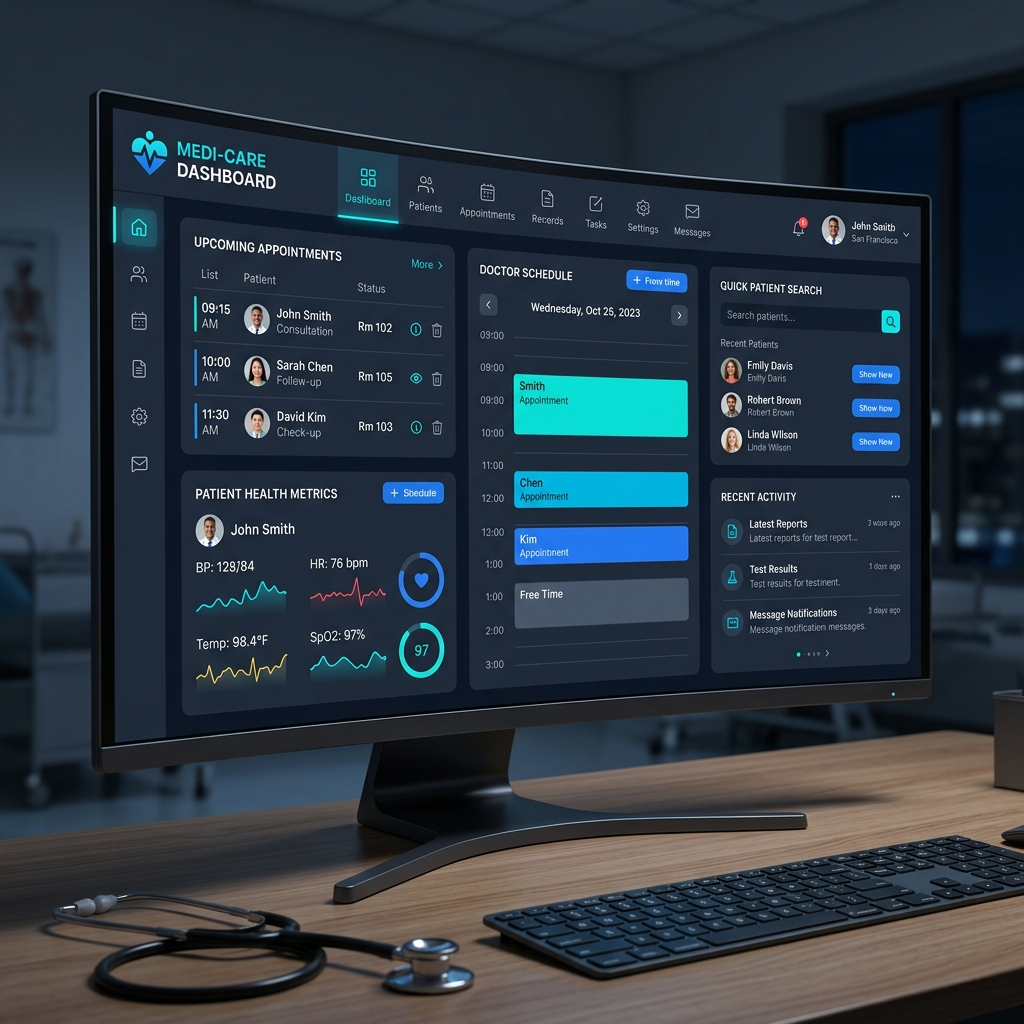
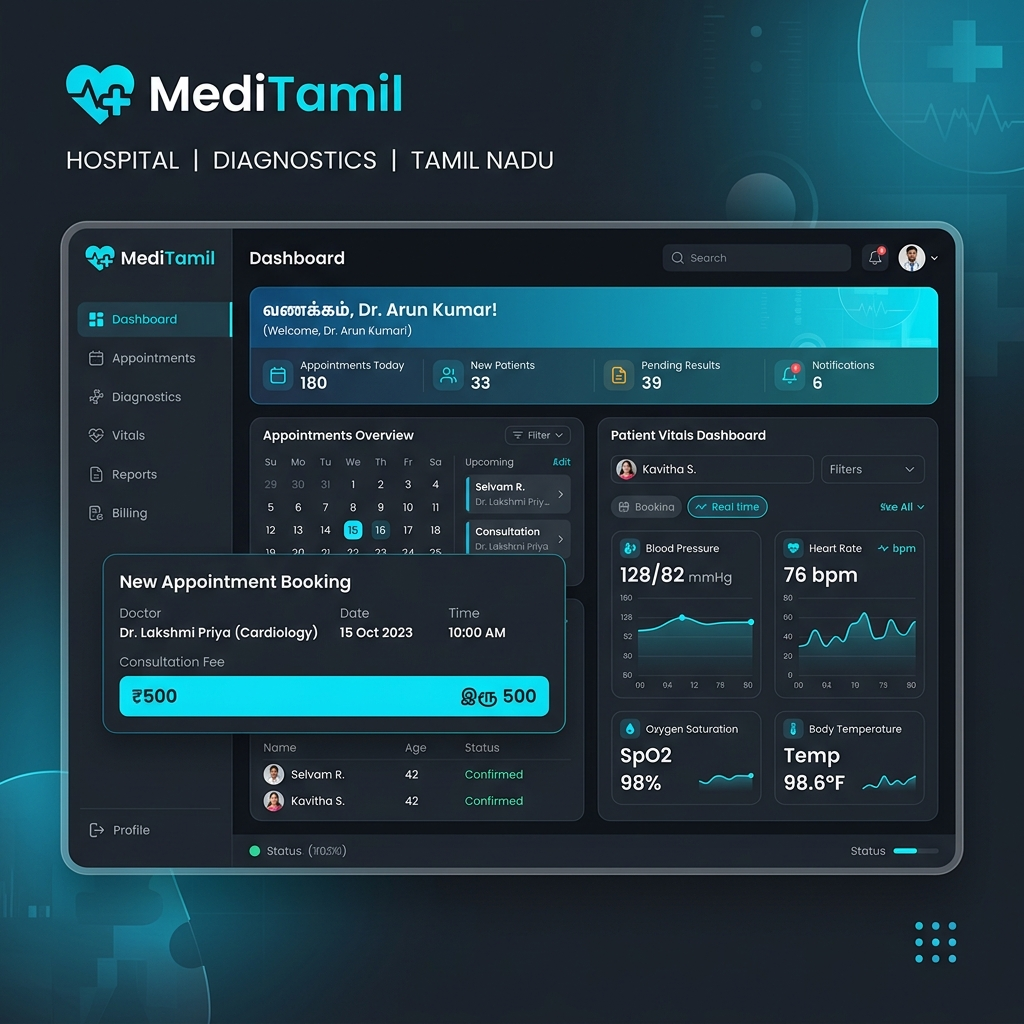
Showcase all 7 Indian Tamil Nadu business sectors with WebP images and INR pricing

diff --git a/components/industries.tsx b/components/industries.tsx
@@ -1,7 +1,18 @@
 "use client";
 
 import Image from "next/image";
-import { Stethoscope, ShoppingBag, Building2, Armchair, ArrowUpRight, Sparkles, CheckCircle2 } from "lucide-react";
+import {
+  Stethoscope,
+  ShoppingBag,
+  Building2,
+  Armchair,
+  Gem,
+  Shirt,
+  Smartphone,
+  ArrowUpRight,
+  Sparkles,
+  CheckCircle2,
+} from "lucide-react";
 
 export default function Industries() {
   const scrollToContact = (industryName: string) => {
@@ -13,44 +24,74 @@ export default function Industries() {
 
   const industryList = [
     {
-      id: "medical",
-      title: "Medical, Hospitals & Healthcare",
-      tag: "Healthcare & Hospitals",
-      desc: "Custom hospital management systems, patient portals, online doctor appointment booking, telemedicine web apps, and EHR systems.",
-      image: "/images/industry-medical.webp",
-      icon: Stethoscope,
-      accent: "from-blue-600 to-cyan-500",
-      features: ["Doctor Appointment Booking", "Patient Health Records", "Pharmacy & Lab Integration"],
-    },
-    {
       id: "grocery",
-      title: "Grocery & Vegetable Shops",
-      tag: "Retail & Grocery",
-      desc: "Online grocery delivery web & mobile apps, fresh produce inventory tracking, instant checkout, and local store delivery management.",
+      title: "Grocery & Fresh Vegetable Shops",
+      tag: "Kirana & Vegetable Stores",
+      desc: "Online fresh vegetable & grocery delivery mobile apps, item weight stock management, Indian Rupee (₹) billing, and WhatsApp order notifications.",
       image: "/images/industry-grocery.webp",
       icon: ShoppingBag,
-      accent: "from-emerald-600 to-teal-500",
-      features: ["Live Stock & Weight Catalog", "Express Local Delivery", "WhatsApp Order Notifications"],
+      pricingSample: "Daily Fresh Stock (₹49/kg)",
+      features: ["Live Stock & Weight Pricing (₹)", "Express Local Store Delivery", "Direct WhatsApp Order Dispatch"],
+    },
+    {
+      id: "medical",
+      title: "Medical, Hospitals & Clinics",
+      tag: "Healthcare & Diagnostics",
+      desc: "Hospital management portals, online doctor appointment scheduling, telemedicine consultation, patient health records, and pharmacy EHR.",
+      image: "/images/industry-medical.webp",
+      icon: Stethoscope,
+      pricingSample: "Doctor Consultation (₹500)",
+      features: ["Online Doctor Appointment Booking", "Patient Health & Lab Diagnostics", "Pharmacy Billing & EHR Records"],
     },
     {
       id: "realestate",
-      title: "Real Estate & Property Portals",
-      tag: "Real Estate & Housing",
-      desc: "Property listing websites, apartment rental management portals, virtual tour integrations, lead management CRMs, and agent dashboards.",
+      title: "Real Estate & Housing Portals",
+      tag: "Plots, Flats & Housing",
+      desc: "Property listing portals, apartment & plot sales, virtual property tours, lead management CRMs, and real estate agent dashboards across Tamil Nadu.",
       image: "/images/industry-realestate.webp",
       icon: Building2,
-      accent: "from-violet-600 to-blue-600",
-      features: ["Interactive Property Maps", "Lead Inquiry CRM", "360 Virtual Tour Viewer"],
+      pricingSample: "Plots & Flats (₹45 L - ₹1.2 Cr)",
+      features: ["Interactive Map Property Search", "Lead Management & Inquiry CRM", "360° Virtual Property Tour Viewer"],
     },
     {
       id: "furniture",
-      title: "Furniture, Bedding & Home Goods",
-      tag: "Furniture & Decor",
-      desc: "E-commerce stores for furniture manufacturers and bedding shops with 3D product customization, bed sizing options, and delivery tracking.",
+      title: "Furniture, Bedding & Home Decor",
+      tag: "Furniture & Bedding",
+      desc: "Custom e-commerce platforms for furniture manufacturers, mattress shops, and bedding stores with custom sizing and home delivery tracking.",
       image: "/images/industry-furniture.webp",
       icon: Armchair,
-      accent: "from-amber-500 to-orange-600",
-      features: ["Custom Dimension Selectors", "High-Res 3D Product Gallery", "Local Delivery Scheduler"],
+      pricingSample: "Teak Sets & Beds (₹35,000)",
+      features: ["Custom Dimension & Wood Selector", "HD 3D Product Furniture Gallery", "Doorstep Delivery & Assembly Scheduler"],
+    },
+    {
+      id: "jewelry",
+      title: "Gold Jewelry & Ornaments Shops",
+      tag: "Gold & Jewelry Showrooms",
+      desc: "Digital showrooms and mobile apps for gold jewelry stores, 22K/24K gold rate calculators, ornament catalogs, and secure inquiry forms.",
+      image: "/images/portfolio-novastore.webp",
+      icon: Gem,
+      pricingSample: "22K Gold Ornaments (₹58,000)",
+      features: ["Live Today's Gold Rate (₹/gram)", "HD Jewelry Showcase Gallery", "Custom Weight & Metal Calculator"],
+    },
+    {
+      id: "textiles",
+      title: "Textiles, Sarees & Garment Stores",
+      tag: "Silk Sarees & Garments",
+      desc: "E-commerce web apps for silk saree showrooms, clothing boutiques, and garment retail shops with dynamic size charts and coupon codes.",
+      image: "/images/portfolio-edupulse.webp",
+      icon: Shirt,
+      pricingSample: "Kanchipuram Silk Sarees (₹12,500)",
+      features: ["Filter by Fabric, Color & Occasion", "Custom Saree Draping Previews", "Pan-India Shipping & Order Tracking"],
+    },
+    {
+      id: "electronics",
+      title: "Electronics & Mobile Retail Shops",
+      tag: "Mobiles & Appliances",
+      desc: "Digital storefronts for mobile phone shops and electronic showrooms with EMI calculators, brand filters, and warranty tracking.",
+      image: "/images/portfolio-logix.webp",
+      icon: Smartphone,
+      pricingSample: "Smartphones & Appliances (₹18,999)",
+      features: ["Instant No-Cost EMI Calculator", "Product Specs Comparison Tool", "Store Pickup & Express Delivery"],
     },
   ];
 
@@ -62,20 +103,20 @@ export default function Industries() {
         <div className="text-center max-w-3xl mx-auto space-y-3 mb-10">
           <div className="inline-flex items-center gap-2 px-3.5 py-1 rounded-full bg-cyan-950/80 border border-cyan-500/30 text-cyan-300 text-xs font-semibold uppercase tracking-wider">
             <Sparkles className="w-3.5 h-3.5 text-cyan-400" />
-            <span>Tailored Industry Solutions</span>
+            <span>7 Core Business Sectors</span>
           </div>
 
           <h2 className="font-heading font-extrabold text-white tracking-tight" style={{ fontSize: "clamp(1.25rem, 5vw, 2.75rem)" }}>
-            Engineered For <span className="text-gradient-brand">Every Business Sector</span>
+            Engineered For <span className="text-gradient-brand">Every Indian Business Sector</span>
           </h2>
 
           <p className="text-slate-300 text-xs sm:text-base leading-relaxed">
-            From vegetable shops and medical hospitals to real estate firms and furniture stores, we build custom digital platforms for any product or industry.
+            From vegetable shops and medical hospitals to real estate, furniture, gold jewelry, and saree showrooms across Tamil Nadu & India — we build custom web & mobile solutions with Indian Rupee (₹) integration.
           </p>
         </div>
 
         {/* Industry Cards Grid */}
-        <div className="grid grid-cols-1 md:grid-cols-2 gap-6">
+        <div className="grid grid-cols-1 md:grid-cols-2 lg:grid-cols-3 gap-6">
           {industryList.map((ind) => {
             const IconComponent = ind.icon;
             return (
@@ -86,7 +127,7 @@ export default function Industries() {
               >
                 <div>
                   {/* WebP Image Banner Display */}
-                  <div className="h-56 relative overflow-hidden">
+                  <div className="h-48 relative overflow-hidden">
                     <Image
                       src={ind.image}
                       alt={ind.title}
@@ -95,31 +136,34 @@ export default function Industries() {
                     />
                     <div className="absolute inset-0 bg-gradient-to-t from-[#0D1524] via-transparent to-black/30 z-10" />
 
-                    {/* Top Badge */}
-                    <div className="relative z-20 p-4 flex items-center justify-between">
-                      <div className="flex items-center gap-2 px-3 py-1 rounded-lg bg-slate-950/80 border border-white/20 text-xs font-mono font-bold text-cyan-300 backdrop-blur-md shadow-md">
-                        <IconComponent className="w-4 h-4 text-cyan-400" />
-                        <span>{ind.tag}</span>
+                    {/* Top Badges */}
+                    <div className="relative z-20 p-3 flex items-center justify-between gap-2">
+                      <div className="flex items-center gap-1.5 px-2.5 py-1 rounded-lg bg-slate-950/85 border border-white/20 text-[11px] font-mono font-bold text-cyan-300 backdrop-blur-md shadow-md">
+                        <IconComponent className="w-3.5 h-3.5 text-cyan-400 shrink-0" />
+                        <span className="truncate">{ind.tag}</span>
                       </div>
+                      <span className="px-2 py-0.5 rounded-md bg-emerald-950/80 border border-emerald-500/40 text-[10px] font-mono font-bold text-emerald-300 shadow-md shrink-0">
+                        {ind.pricingSample}
+                      </span>
                     </div>
                   </div>
 
                   {/* Card Content */}
-                  <div className="p-5 space-y-3">
-                    <h3 className="font-heading font-bold text-lg sm:text-xl text-white group-hover:text-cyan-300 transition-colors">
+                  <div className="p-4 space-y-2.5">
+                    <h3 className="font-heading font-bold text-base sm:text-lg text-white group-hover:text-cyan-300 transition-colors">
                       {ind.title}
                     </h3>
 
-                    <p className="text-slate-300 text-xs sm:text-sm leading-relaxed">
+                    <p className="text-slate-300 text-xs leading-relaxed line-clamp-3">
                       {ind.desc}
                     </p>
 
                     {/* Feature Bullets */}
-                    <ul className="space-y-1.5 pt-3 border-t border-white/10">
+                    <ul className="space-y-1 pt-2.5 border-t border-white/10">
                       {ind.features.map((feat) => (
-                        <li key={feat} className="text-xs text-slate-300 flex items-center gap-2">
-                          <CheckCircle2 className="w-3.5 h-3.5 text-cyan-400 shrink-0" />
-                          <span>{feat}</span>
+                        <li key={feat} className="text-[11px] text-slate-300 flex items-center gap-1.5">
+                          <CheckCircle2 className="w-3 h-3 text-cyan-400 shrink-0" />
+                          <span className="truncate">{feat}</span>
                         </li>
                       ))}
                     </ul>
@@ -127,7 +171,7 @@ export default function Industries() {
                 </div>
 
                 {/* Bottom Action CTA */}
-                <div className="px-5 py-3.5 bg-slate-950/60 border-t border-white/10 flex items-center justify-between text-xs font-semibold text-cyan-400 group-hover:text-white transition-colors">
+                <div className="px-4 py-3 bg-slate-950/60 border-t border-white/10 flex items-center justify-between text-xs font-semibold text-cyan-400 group-hover:text-white transition-colors">
                   <span>Build Solution For My Business</span>
                   <ArrowUpRight className="w-4 h-4 group-hover:translate-x-0.5 group-hover:-translate-y-0.5 transition-transform" />
                 </div>
